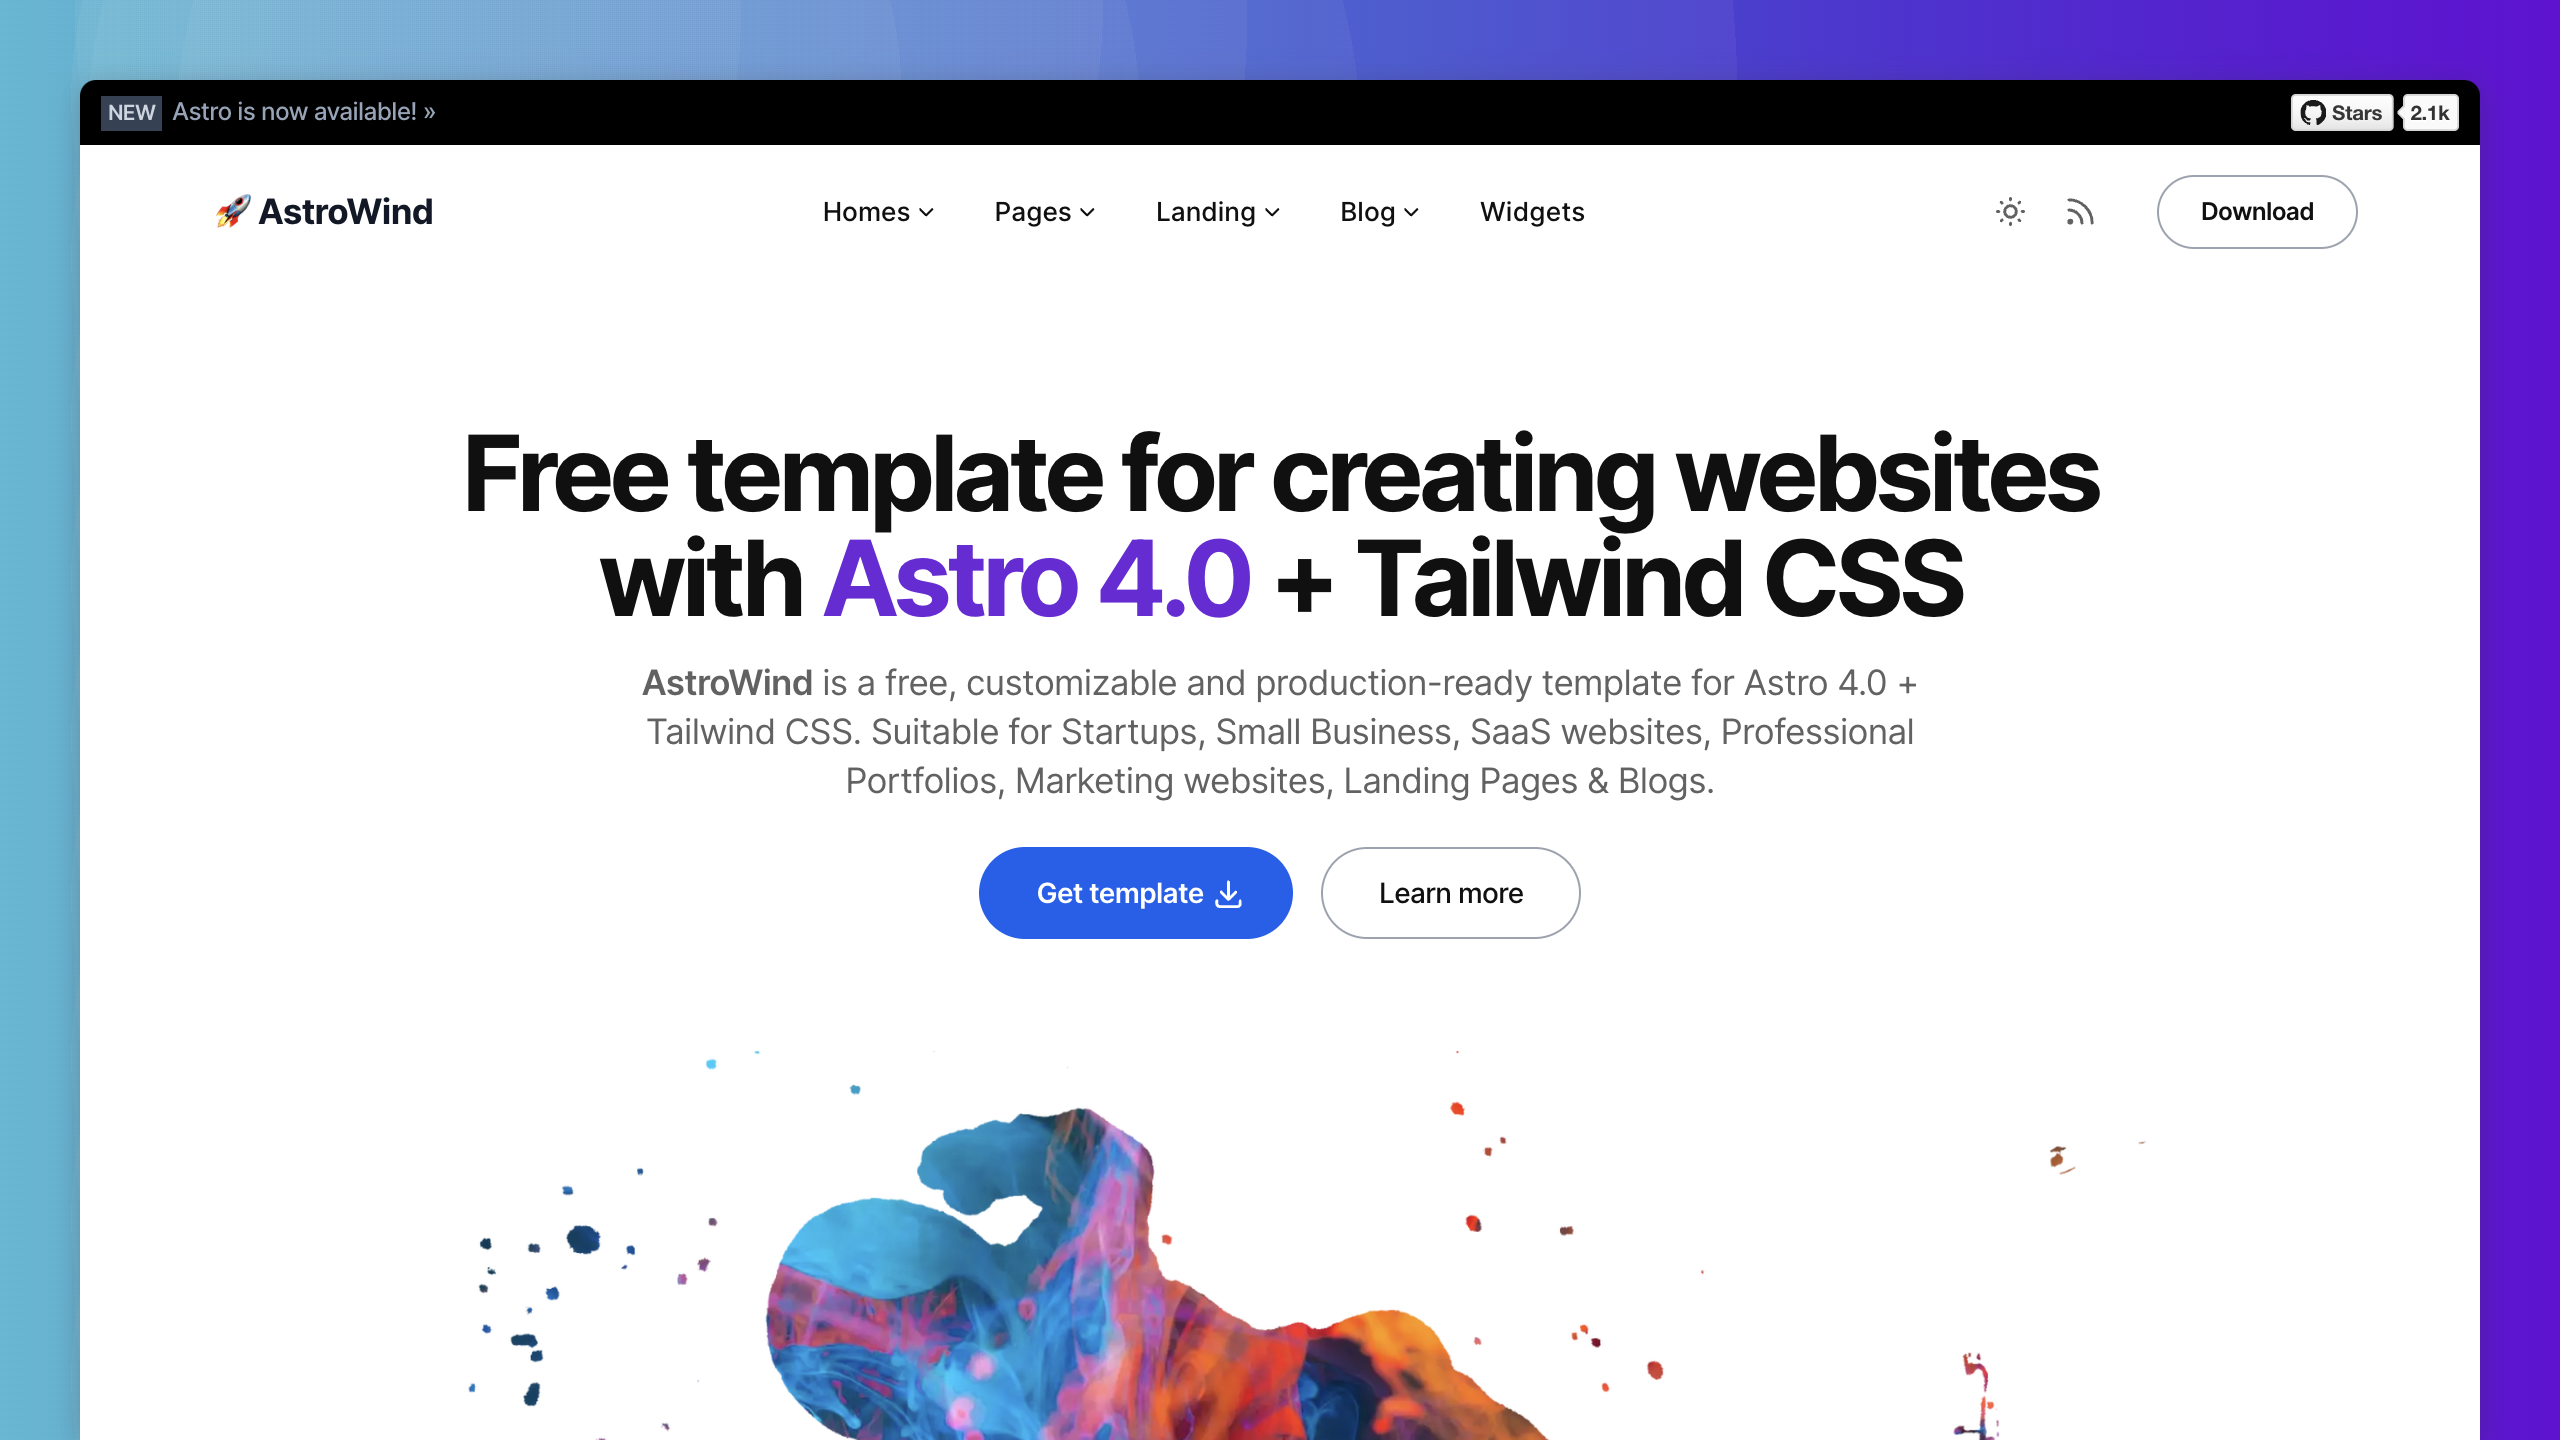
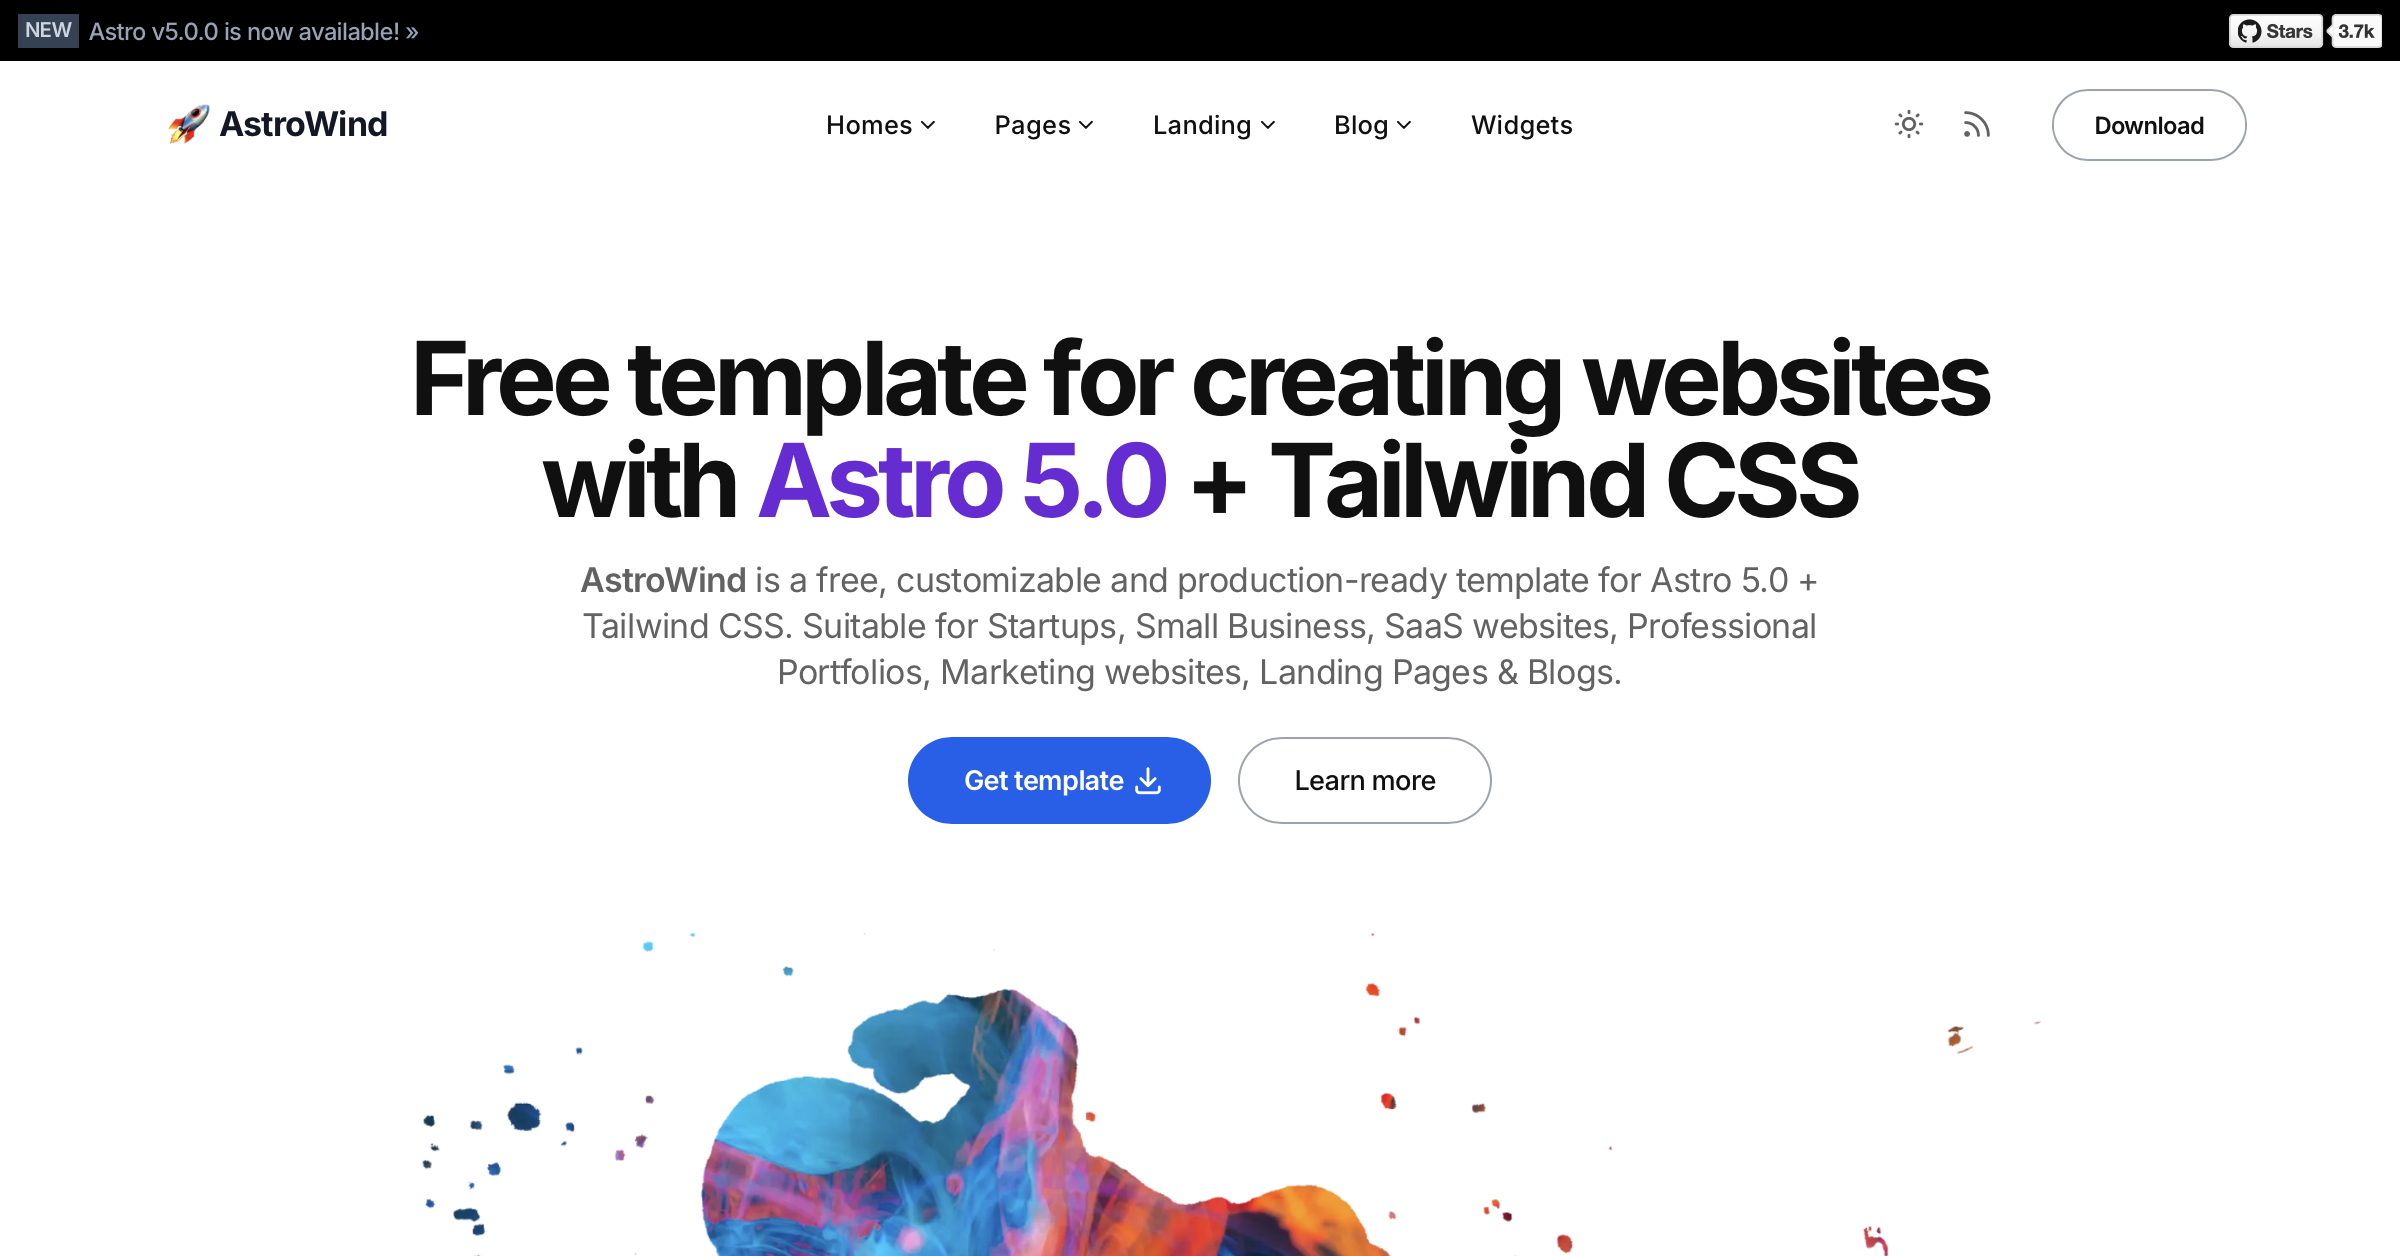
update assets/images/default.png to show astro 5

diff --git a/README.md b/README.md
@@ -17,7 +17,7 @@
 
 <br>
 
-<img src="https://raw.githubusercontent.com/onwidget/.github/main/resources/astrowind/screenshot-astrowind-1.png" alt="AstroWind Theme Screenshot">
+![AstroWind Theme Screenshot](src/assets/images/default.png)
 
 [![onWidget](https://custom-icon-badges.demolab.com/badge/made%20by%20-onWidget-556bf2?style=flat-square&logo=onwidget&logoColor=white&labelColor=101827)](https://onwidget.com)
 [![License](https://img.shields.io/github/license/onwidget/astrowind?style=flat-square&color=dddddd&labelColor=000000)](https://github.com/onwidget/astrowind/blob/main/LICENSE.md)
